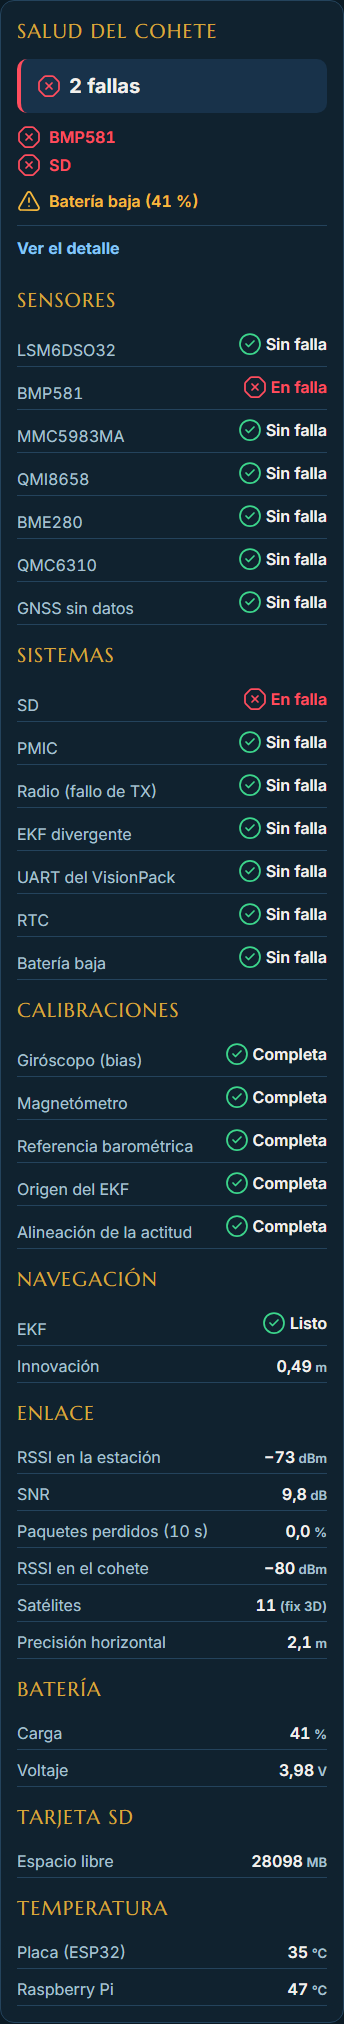
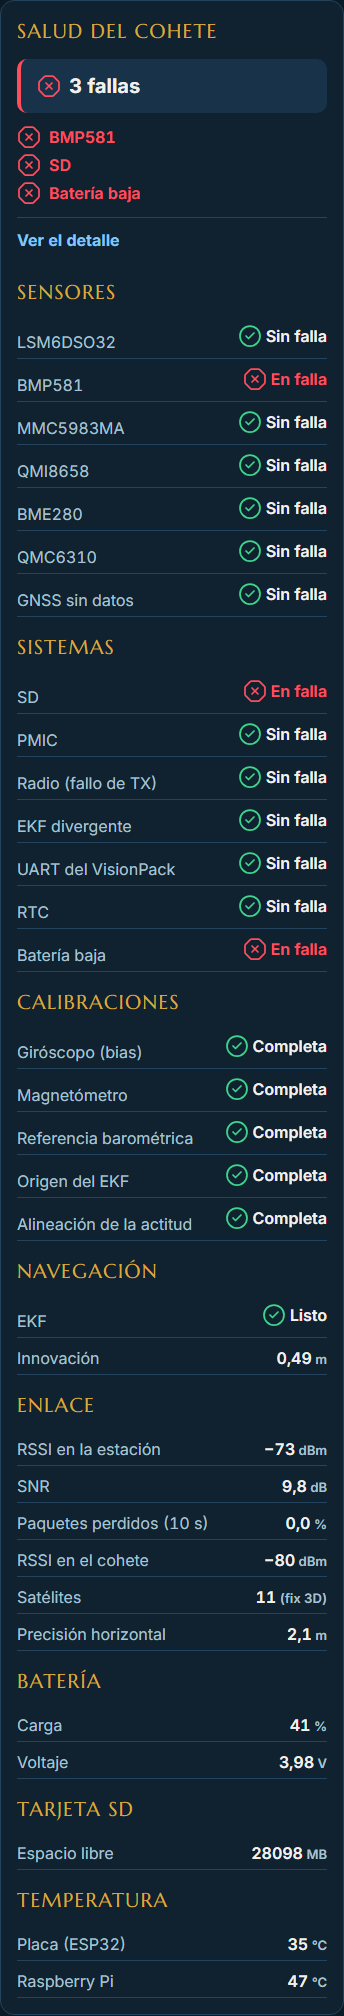
fix(web): Pagina no se redibuja a 10 Hz y la batería baja es solo el bit 13 [T-625]
Pagina leía estadoPagina.value.aterrizado; como estadoPagina devuelve un
objeto nuevo en cada tic del reloj (10 Hz), se redibujaba entera (mapa,
Inicio, Equipo, Actitud). Ahora usa un computed de un booleano
(src/mision/aterrizado.ts), que solo avisa cuando cambia.

Decisión del usuario: la web no recalcula la batería. Se quita el aviso
por BAT_MIN_ARM_PCT y constantes_salud.ts; la batería baja sale solo
como la falla del bit 13 que manda el firmware. El detalle sigue con
el % y los V. Se regeneran las capturas salud-fallas-*.

Probado: pruebas/aterrizado.test.ts (el booleano avisa 1 vez en 50 tics);
npm test 377 ok; e2e 164 ok y 1 falla preexistente (mapa.spec.ts:198).
Refs: T-625

diff --git a/gui/web/pruebas/salud.test.ts b/gui/web/pruebas/salud.test.ts
@@ -1,7 +1,6 @@
 import { describe, expect, it } from "vitest";
 import { estadoEjemplo, saludEjemplo } from "../src/contrato/ejemplos";
 import type { Estado, Fase, Salud } from "../src/contrato/tipos";
-import { BAT_MIN_ARM_PCT } from "../src/mision/constantes_salud";
 import {
   BITS_FALLA,
   fallasActivas,
@@ -101,7 +100,7 @@ describe("resumen siempre visible (03 §3.8)", () => {
   });
 });
 
-describe("avisos: calibraciones, EKF y batería", () => {
+describe("avisos: calibraciones y EKF; la batería baja es solo el bit 13", () => {
   it("calibraciones sin terminar: un solo aviso que las nombra", () => {
     const s = saludCon({ calib: { ...saludEjemplo.calib, giro: false, mag: false } });
     const v = vistaSalud(s, estadoEjemplo, "demeter");
@@ -127,18 +126,22 @@ describe("avisos: calibraciones, EKF y batería", () => {
     expect(v.avisos).toEqual([]);
   });
 
-  it("batería por debajo de BAT_MIN_ARM_PCT: aviso; justo en el umbral, no", () => {
-    const baja = estadoEn("ARMED", { bat_pct: BAT_MIN_ARM_PCT - 1 });
-    expect(vistaSalud(saludEjemplo, baja, "demeter").avisos.map((a) => a.id)).toEqual(["bateria"]);
-    const justa = estadoEn("ARMED", { bat_pct: BAT_MIN_ARM_PCT });
-    expect(vistaSalud(saludEjemplo, justa, "demeter").avisos).toEqual([]);
+  it("la web no recalcula la batería: un % bajo sin el bit 13 no genera aviso ni falla", () => {
+    const v = vistaSalud(saludEjemplo, estadoEn("ARMED", { bat_pct: 5 }), "demeter");
+    expect(v.avisos).toEqual([]);
+    expect(v.fallas).toEqual([]);
+    expect(v.nivel).toBe("ok");
+    expect(v.bateria.pct).toBe(5);
   });
 
-  it("batería baja ya reportada como falla (bit 13): no se duplica como aviso", () => {
+  it("batería baja = la falla del bit 13 que manda el firmware, y el detalle sigue con % y V", () => {
     const s = saludCon({ fallas: ["Batería baja"], fallas_bits: bits(13) });
     const v = vistaSalud(s, estadoEn("ARMED", { bat_pct: 40 }), "demeter");
     expect(v.avisos).toEqual([]);
     expect(v.fallas).toEqual(["Batería baja"]);
+    expect(v.nivel).toBe("falla");
+    expect(v.sistemas.find((f) => f.nombre === "Batería baja")?.falla).toBe(true);
+    expect(v.bateria).toEqual({ pct: 40, voltios: 3.98 });
   });
 
   it("batería sin dato (`bat_pct` null): ni aviso ni número inventado", () => {
@@ -149,12 +152,9 @@ describe("avisos: calibraciones, EKF y batería", () => {
 
   it("varios avisos: 'N avisos'", () => {
     const s = saludCon({ calib: { ...saludEjemplo.calib, baro: false } });
-    const e = estadoEn("PREFLIGHT", {
-      bat_pct: 30,
-      flags: { ...estadoEjemplo.flags, ekf_ok: false },
-    });
+    const e = estadoEn("PREFLIGHT", { flags: { ...estadoEjemplo.flags, ekf_ok: false } });
     const v = vistaSalud(s, e, "demeter");
-    expect(v.resumen).toBe("3 avisos");
+    expect(v.resumen).toBe("2 avisos");
   });
 });
 

diff --git a/gui/web/e2e/recuperacion_salud.spec.ts b/gui/web/e2e/recuperacion_salud.spec.ts
@@ -24,6 +24,7 @@ const T_ARMADO = 10_000;
 const T_DESCENSO = 40_000;
 const BIT_BMP581 = 1;
 const BIT_SD = 7;
+const BIT_BATERIA_BAJA = 13;
 
 const sinDesborde = (page: Page) =>
   page.evaluate(() => document.documentElement.scrollWidth <= document.documentElement.clientWidth);
@@ -460,6 +461,25 @@ test.describe("Salud del cohete", () => {
     await expect(salud(page).locator('[data-salud="go-nogo"]')).toHaveCount(0);
   });
 
+  test("batería baja: solo la falla del bit 13; la web no recalcula con el %", async ({ page }) => {
+    await abrir(page, "demeter");
+    const base = nominalEn("demeter", T_DESCENSO);
+    const baja = { ...base, estado: base.estado && { ...base.estado, bat_pct: 5 } };
+    await alimentar(page, baja);
+    await expect(resumen(page)).toContainText("Todo en orden");
+    await expect(salud(page).locator('[data-aviso="bateria"]')).toHaveCount(0);
+    await salud(page).locator("summary").click();
+    await expect(salud(page).locator('[data-fila="bateria-pct"]')).toContainText("5");
+
+    await alimentar(
+      page,
+      conSalud(baja, { fallas: ["Batería baja"], fallas_bits: 1 << BIT_BATERIA_BAJA }),
+    );
+    await expect(resumen(page)).toContainText("Falla en un sistema");
+    await expect(salud(page).locator('[data-salud="fallas"]')).toContainText("Batería baja");
+    await expect(salud(page).locator('[data-fila="bateria-v"]')).toContainText("V");
+  });
+
   test("Hermes: sin fila de temperatura de la Pi ni del UART del VisionPack", async ({ page }) => {
     await abrir(page, "hermes");
     await alimentar(page, aterrizado("hermes"));
@@ -506,14 +526,17 @@ test.describe("capturas de la bitácora", () => {
         await salud(page).screenshot({ path: `${CAPTURAS}/salud-nominal-${medida}.png` });
       });
 
-      test("fallas y avisos", async ({ page }) => {
+      test("fallas (incluida la batería baja, bit 13)", async ({ page }) => {
         await abrir(page, "demeter");
         const base = nominalEn("demeter", T_DESCENSO);
         await alimentar(
           page,
           conSalud(
             { ...base, estado: base.estado && { ...base.estado, bat_pct: 41 } },
-            { fallas: ["BMP581", "SD"], fallas_bits: (1 << BIT_BMP581) | (1 << BIT_SD) },
+            {
+              fallas: ["BMP581", "SD", "Batería baja"],
+              fallas_bits: (1 << BIT_BMP581) | (1 << BIT_SD) | (1 << BIT_BATERIA_BAJA),
+            },
           ),
         );
         await salud(page).locator("summary").click();

diff --git a/gui/web/src/mision/vista_salud.ts b/gui/web/src/mision/vista_salud.ts
@@ -5,10 +5,11 @@
 // Qué es una falla y qué un aviso (propuesta de T-625; 03 §3.8 no lo define):
 //   - FALLA (⛔): algún bit en `fallas` (protocolo_paquetes §3). Se muestran sus nombres.
 //   - AVISO (⚠), una causa cuenta una vez: calibraciones sin terminar; EKF no listo (`flags.ekf_ok`
-//     en falso); batería por debajo de `BAT_MIN_ARM_PCT`. No hay umbral en constantes.md para la
-//     innovación del EKF, así que solo se muestra su valor: no genera aviso.
+//     en falso). No hay umbral en constantes.md para la innovación del EKF, así que solo se muestra
+//     su valor: no genera aviso.
+//   - Batería (decisión del usuario): la web no recalcula. La batería baja sale solo como la falla
+//     del bit 13 que manda el firmware; el detalle muestra el % y los V.
 import type { CondicionGoNogo, Estado, Fase, Mision, Salud } from "../contrato/tipos";
-import { BAT_MIN_ARM_PCT } from "./constantes_salud";
 
 const MV_POR_V = 1000;
 /** Las fases en las que el Go/No-Go es lo que importa: antes del despegue (maquina_estados §4). */
@@ -42,7 +43,6 @@ export const BITS_FALLA: readonly {
 ];
 
 const NOMBRE_EKF_DIVERGENTE = "EKF divergente";
-const NOMBRE_BATERIA_BAJA = "Batería baja";
 
 /** Las calibraciones de `salud.calib`, con su nombre público (protocolo_paquetes §3). */
 export const CALIBRACIONES = [
@@ -54,7 +54,7 @@ export const CALIBRACIONES = [
 ] as const;
 export type IdCalibracion = (typeof CALIBRACIONES)[number]["id"];
 
-export type IdAviso = "calibraciones" | "ekf" | "bateria";
+export type IdAviso = "calibraciones" | "ekf";
 export interface Aviso {
   id: IdAviso;
   texto: string;
@@ -135,10 +135,6 @@ function avisosDe(salud: Salud, estado: Estado | null, fallas: string[]): Aviso[
   // Un EKF divergente ya es una falla: no se repite como aviso.
   if (estado !== null && !estado.flags.ekf_ok && !fallas.includes(NOMBRE_EKF_DIVERGENTE)) {
     avisos.push({ id: "ekf", texto: "El EKF aún no está listo" });
-  }
-  const pct = estado?.bat_pct ?? null;
-  if (pct !== null && pct < BAT_MIN_ARM_PCT && !fallas.includes(NOMBRE_BATERIA_BAJA)) {
-    avisos.push({ id: "bateria", texto: `Batería baja (${pct} %)` });
   }
   return avisos;
 }

diff --git a/gui/web/pruebas/aterrizado.test.ts b/gui/web/pruebas/aterrizado.test.ts
@@ -1,0 +1,56 @@
+import { effect } from "@preact/signals";
+import { afterEach, describe, expect, it } from "vitest";
+import { snapshotEjemplo } from "../src/contrato/ejemplos";
+import type { Snapshot } from "../src/contrato/tipos";
+import { alimentar, estadoPagina } from "../src/datos/api";
+import { aterrizado } from "../src/mision/aterrizado";
+
+const TICS = 50;
+const conFase = (fase: "DESCENT" | "LANDED"): Snapshot => ({
+  ...snapshotEjemplo,
+  estado: snapshotEjemplo.estado && { ...snapshotEjemplo.estado, fase },
+});
+
+/** Cuántas veces corre un efecto que lee `leer`, mientras el reloj local avanza `TICS` tics. */
+function ejecuciones(leer: () => unknown): number {
+  let n = 0;
+  const parar = effect(() => {
+    leer();
+    n++;
+  });
+  for (let i = 1; i <= TICS; i++) alimentar.reloj(i * 100);
+  parar();
+  return n;
+}
+
+afterEach(() => alimentar.reiniciar());
+
+describe("`aterrizado` (Pagina no se dibuja entera con cada tic del reloj)", () => {
+  it("leer `estadoPagina` directo avisa en cada tic: es el problema que se evita", () => {
+    alimentar.snapshot(conFase("DESCENT"), 0);
+    expect(ejecuciones(() => estadoPagina.value.aterrizado)).toBeGreaterThan(TICS / 2);
+  });
+
+  it("el booleano no avisa mientras el reloj avanza y la fase no cambia", () => {
+    alimentar.snapshot(conFase("DESCENT"), 0);
+    expect(ejecuciones(() => aterrizado.value)).toBe(1); // solo la ejecución inicial
+  });
+
+  it("avisa una sola vez cuando la fase pasa a LANDED, y refleja el valor", () => {
+    alimentar.snapshot(conFase("DESCENT"), 0);
+    let n = 0;
+    const vistos: boolean[] = [];
+    const parar = effect(() => {
+      vistos.push(aterrizado.value);
+      n++;
+    });
+    for (let i = 1; i <= TICS; i++) alimentar.reloj(i * 100);
+    const enTierra = conFase("LANDED").estado;
+    if (enTierra === null) throw new Error("el ejemplo debe traer estado");
+    alimentar.estado(enTierra);
+    for (let i = TICS; i <= 2 * TICS; i++) alimentar.reloj(i * 100);
+    parar();
+    expect(vistos).toEqual([false, true]);
+    expect(n).toBe(2);
+  });
+});

diff --git a/gui/web/src/mision/Pagina.tsx b/gui/web/src/mision/Pagina.tsx
@@ -3,8 +3,8 @@
 import type { ComponentChildren } from "preact";
 import { Actitud } from "../actitud/Actitud";
 import type { Contenido } from "../contenido/tipos";
-import { estadoPagina } from "../datos/api";
 import { SeccionMapa } from "../mapa/SeccionMapa";
+import { aterrizado } from "./aterrizado";
 import { BannerAlarma } from "./BannerAlarma";
 import { BarraMision } from "./BarraMision";
 import { Equipo } from "./Equipo";
@@ -26,7 +26,7 @@ interface Props {
 export function Pagina({ contenido, extra }: Props) {
   // Aterrizado (03 §4): Recuperación sube al inicio del <main>, en el DOM y no solo a la vista,
   // para que el orden de lectura y del teclado coincida con lo que se ve.
-  const aterrizado = estadoPagina.value.aterrizado;
+  const enTierra = aterrizado.value;
   return (
     <>
       <header class="cabecera-mision">
@@ -34,13 +34,13 @@ export function Pagina({ contenido, extra }: Props) {
         <BannerAlarma />
         <Navegacion />
       </header>
-      <main class="panel" data-aterrizado={aterrizado ? "si" : "no"}>
-        {aterrizado && <Recuperacion />}
+      <main class="panel" data-aterrizado={enTierra ? "si" : "no"}>
+        {enTierra && <Recuperacion />}
         <Inicio contenido={contenido} />
         <EstadoMision mision={contenido.mision} />
         <Telemetria />
         <SeccionMapa />
-        {!aterrizado && <Recuperacion />}
+        {!enTierra && <Recuperacion />}
         <Actitud />
         <Hueco id="graficas" titulo="Gráficas" />
         <Salud mision={contenido.mision} />

diff --git a/gui/web/src/mision/aterrizado.ts b/gui/web/src/mision/aterrizado.ts
@@ -1,0 +1,8 @@
+// `fase = LANDED` como un booleano que solo notifica cuando cambia (T-625).
+// `estadoPagina` devuelve un objeto nuevo en cada tic del reloj local (10 Hz); leerlo directo en
+// `Pagina` la volvería a dibujar entera (mapa, Inicio, Equipo, Actitud...) 10 veces por segundo.
+// Un `computed` de un booleano compara por valor y no avisa mientras siga igual.
+import { computed } from "@preact/signals";
+import { estadoPagina } from "../datos/api";
+
+export const aterrizado = computed(() => estadoPagina.value.aterrizado);

diff --git a/docs/07_bitacora/2026-10-26_T-625_recuperacion_salud.md b/docs/07_bitacora/2026-10-26_T-625_recuperacion_salud.md
@@ -67,5 +67,10 @@ Desde `gui/web/`:
 - Decidir los puntos 1, 3, 4 y 6.
 - El PR #32 queda listo para revisión; sin merge.
 
+## Actualización tras la revisión del PR (mismo día)
+- **Decisión del usuario sobre la batería: solo el bit 13.** La web no recalcula: se quitó el aviso por `BAT_MIN_ARM_PCT` y se borró `constantes_salud.ts`. La batería baja sale únicamente como la falla "Batería baja" que manda el firmware; el detalle sigue con el % y los V. Esto reemplaza lo dicho en las decisiones 1 y en "Qué se hizo" sobre el aviso de batería. La captura `salud-fallas-*` se regeneró (3 fallas, sin aviso de batería).
+- **Render a 10 Hz corregido:** `Pagina` leía `estadoPagina.value.aterrizado` y se volvía a dibujar entera con cada tic del reloj (el objeto cambia a 10 Hz). Ahora usa `aterrizado` (`src/mision/aterrizado.ts`, un `computed` de un booleano, que solo avisa cuando cambia). Prueba unitaria `pruebas/aterrizado.test.ts` (3 pruebas): leer `estadoPagina` directo avisa en la mayoría de los 50 tics; el booleano avisa 1 vez (la inicial) y una sola más al pasar a LANDED. No se cuentan los renders de `Pagina` porque vitest corre en Node sin DOM.
+- Resultados: `npm run build` ok; `npm test` 19 archivos, 377 ok, 1 omitida; e2e completa en una segunda corrida: 164 ok, 14 omitidas, 1 falla preexistente (`mapa.spec.ts:198`). En la primera corrida fallaron además `mapa_limites.spec.ts:320` y `mision.spec.ts:186` (por carga de la máquina: pasan solas y en la segunda corrida).
+
 ## Documentos afectados
 - Ninguno de los contratos. Para el documentador: `backlog.md` (T-625), `constantes.md` (si se agrega un umbral de batería de la web) y `05_contrato_datos_web.md` (si se acepta la propuesta del punto 3).
